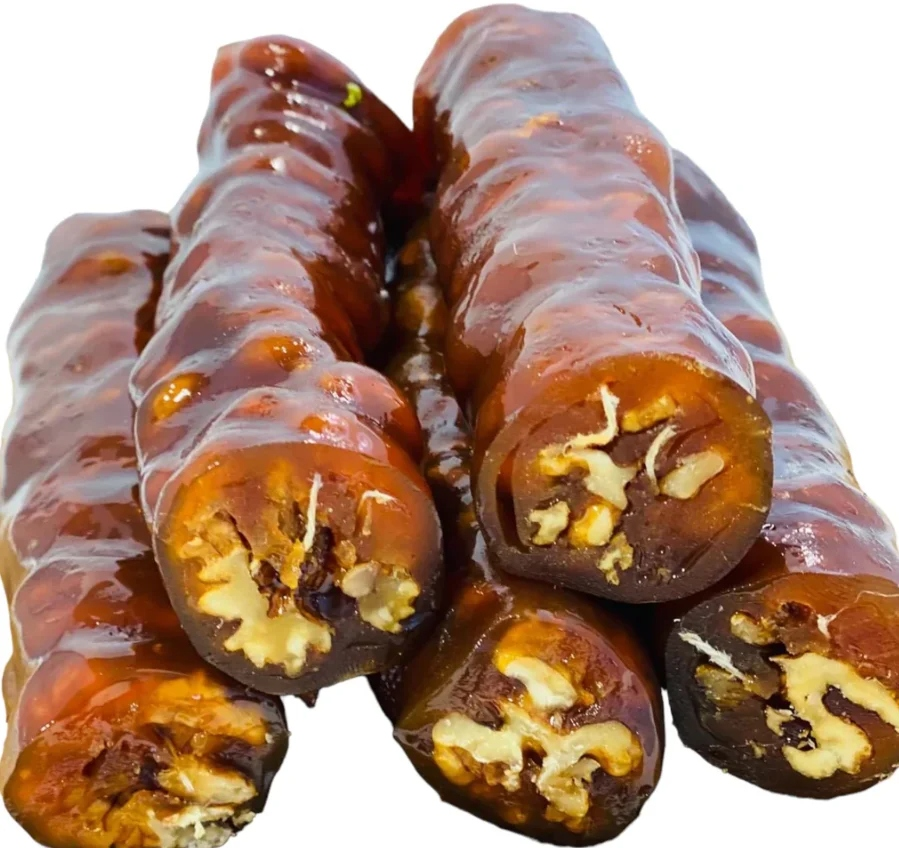
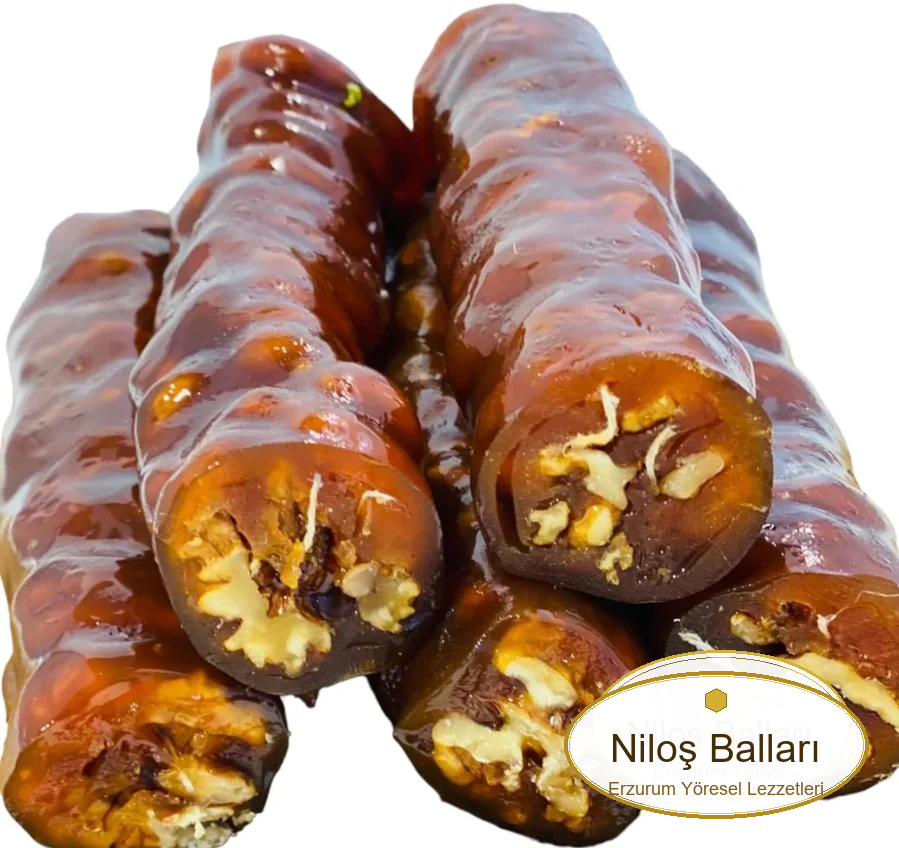
Apply custom branding labels to all product images

Changed region(s): [[0.6229, 0.7665, 0.9655, 0.9811]]

diff --git a/apply_branding.py b/apply_branding.py
@@ -1,0 +1,70 @@
+from PIL import Image, ImageDraw, ImageFont
+import os
+
+images_dir = "images"
+
+# Products to brand
+product_files = [f for f in os.listdir(images_dir) if f.endswith('.png') or f.endswith('.jpg')]
+
+def add_brand_label(image_path, brand_text="Niloş Balları"):
+    try:
+        img = Image.open(image_path).convert("RGBA")
+        W, H = img.size
+        
+        # Scale label size based on image size
+        label_w = int(W * 0.35)
+        label_h = int(label_w * 0.5)
+        
+        # Create a drawing surface for the label
+        label = Image.new("RGBA", (label_w, label_h), (0,0,0,0))
+        draw = ImageDraw.Draw(label)
+        
+        # Draw White Oval (the label base)
+        draw.ellipse([5, 5, label_w-5, label_h-5], fill=(255, 255, 255, 245), outline=(180, 140, 30), width=4)
+        
+        # Inner gold border
+        draw.ellipse([10, 10, label_w-10, label_h-10], outline=(212, 175, 55, 180), width=1)
+        
+        # Load fonts
+        try:
+            font_title = ImageFont.truetype("arial.ttf", int(label_h * 0.25))
+            font_subtitle = ImageFont.truetype("arial.ttf", int(label_h * 0.12))
+        except:
+            font_title = ImageFont.load_default()
+            font_subtitle = ImageFont.load_default()
+            
+        # Draw small Hexagon (Honeycomb) icon instead of emoji
+        import math
+        hx, hy = label_w//2, label_h * 0.22
+        h_size = 12
+        hex_pts = []
+        for a in range(6):
+            angle = math.pi / 3 * a + math.pi / 6
+            px = hx + h_size * math.cos(angle)
+            py = hy + h_size * math.sin(angle)
+            hex_pts.append((px, py))
+        draw.polygon(hex_pts, fill=(212, 175, 55), outline=(150, 110, 20))
+        
+        # Draw Brand Text
+        draw.text((label_w//2, label_h * 0.52), brand_text, fill=(70, 45, 10), font=font_title, anchor="mm")
+        
+        # Draw Region
+        draw.text((label_w//2, label_h * 0.78), "Erzurum Yöresel Lezzetleri", fill=(130, 90, 30), font=font_subtitle, anchor="mm")
+        
+        # Position label in bottom right
+        pos_x = W - label_w - int(W * 0.03)
+        pos_y = H - label_h - int(H * 0.03)
+        
+        # Paste onto main image
+        img.paste(label, (pos_x, pos_y), label)
+        
+        # Save
+        img.convert("RGB").save(image_path, "PNG")
+        return True
+    except Exception as e:
+        print(f"Error: {e}")
+        return False
+
+for pfile in product_files:
+    add_brand_label(os.path.join(images_dir, pfile))
+print("DONE")

diff --git a/download_real_images.py b/download_real_images.py
@@ -1,0 +1,42 @@
+import urllib.request
+import ssl
+import os
+
+os.makedirs("images", exist_ok=True)
+
+# SSL context to bypass certificate verification
+ctx = ssl.create_default_context()
+ctx.check_hostname = False
+ctx.verify_mode = ssl.CERT_NONE
+
+# Reliable Unsplash Image IDs
+image_ids = {
+    "images/kaset_bal.png": "1563729784400-589574bf4120", # Honeycomb
+    "images/cicek_bali.png": "1587049352846-df6365f5a8ad", # Honey
+    "images/karakovan.png": "1471374586948-4cc93576412c", # Dark Honey
+    "images/nilay_altin.png": "1555035336-d762956cf9dc", # Premium Honey
+    "images/dut_pekmezi.png": "1510629954389-c1e0da47d415", # Dark Syrup
+    "images/uzum_pekmezi.png": "1528490159114-64463a73c2b7", # Grape/Molasses look
+    "images/cevizli_sucuk.png": "1591151608674-87be7d47228a", # Sweets/Nuts
+    "images/pestil_bastik.png": "1596455607563-ad6193f76b17", # Fruit leather look
+    "images/yayla_tereyagi.png": "1589985270826-4b7bb135bc9d", # Butter
+}
+
+headers = {
+    'User-Agent': 'Mozilla/5.0 (Windows NT 10.0; Win64; x64) AppleWebKit/537.36 (KHTML, like Gecko) Chrome/120.0.0.0 Safari/537.36'
+}
+
+for filename, photo_id in image_ids.items():
+    url = f"https://images.unsplash.com/photo-{photo_id}?auto=format&fit=crop&q=80&w=800&h=600"
+    print(f"Downloading {filename} from Unsplash ID {photo_id}...")
+    try:
+        req = urllib.request.Request(url, headers=headers)
+        with urllib.request.urlopen(req, context=ctx) as response:
+            data = response.read()
+            with open(filename, 'wb') as f:
+                f.write(data)
+            print(f"  OK ({len(data)} bytes)")
+    except Exception as e:
+        print(f"  FAILED: {e}")
+
+print("ALL DONE!")
